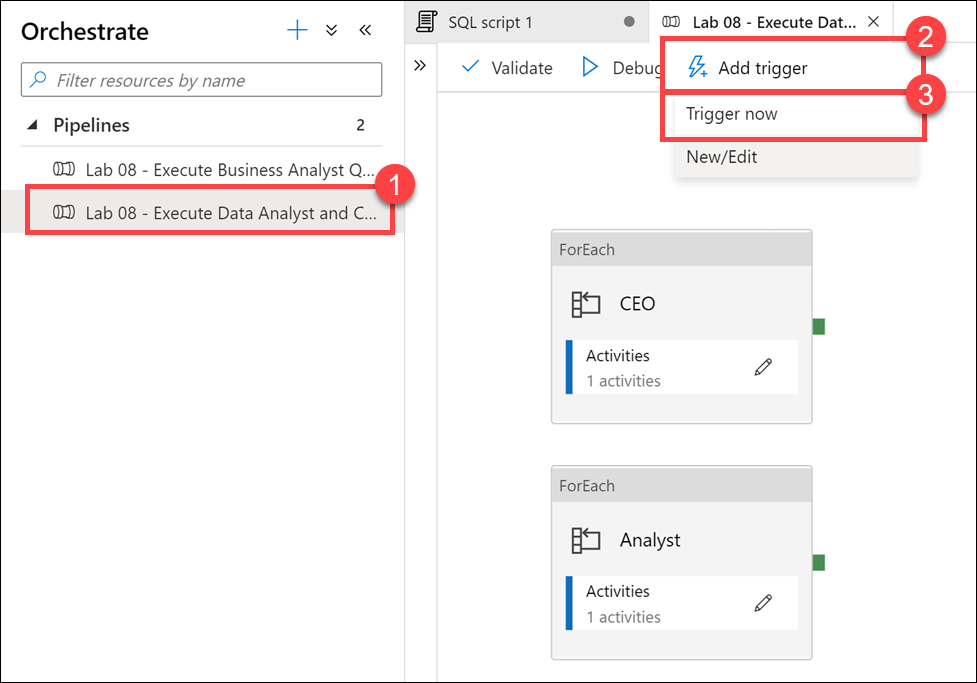
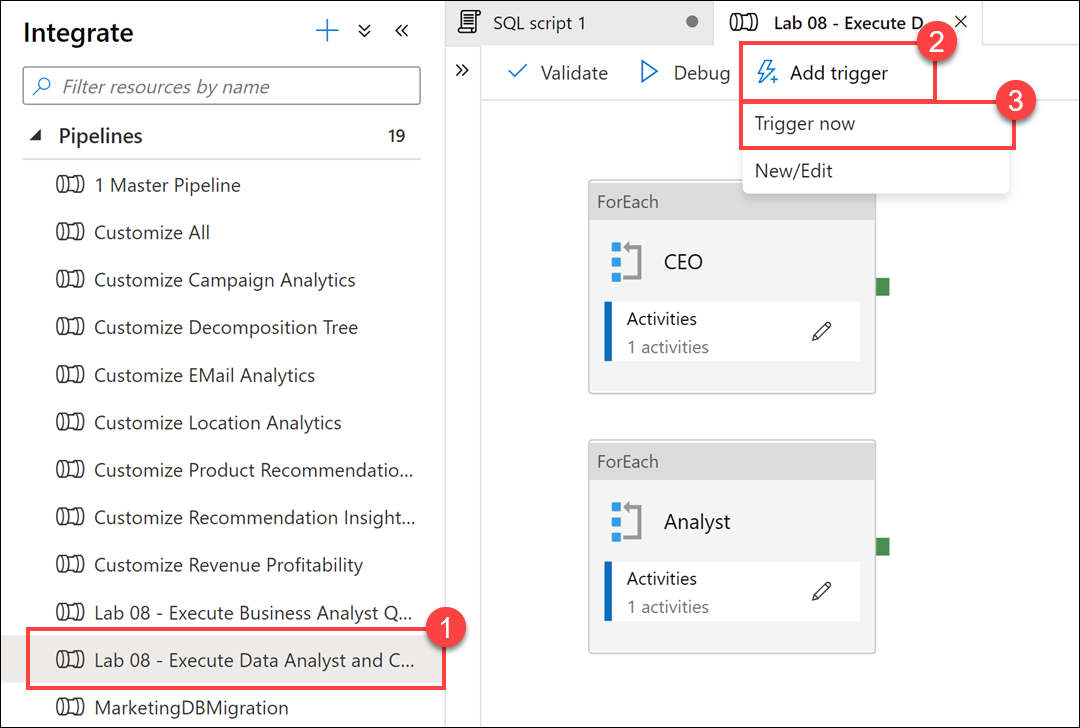
Updates to Module 2

diff --git a/demos/module2/README.md b/demos/module2/README.md
@@ -2,7 +2,7 @@
 
 In this demo, we show ways you can optimize data warehouse workloads that use the dedicated SQL pools. We cover useful developer features, how to define and use workload management and classification to control data loading, and methods to optimize query performance. The following table of contents describes and links to the elements of the demo:
 
-- [Optimize a Data Warehouse with dedicated SQL Pools in Azure Synapse](#optimize-a-data-warehouse-with-azure-synapse-sql-pools)
+- [Optimize a Data Warehouse with dedicated SQL Pools in Azure Synapse](#optimize-a-data-warehouse-with-dedicated-sql-pools-in-azure-synapse)
   - [Demo prerequisites](#demo-prerequisites)
   - [Understanding developer features of Azure Synapse Analytics](#understanding-developer-features-of-azure-synapse-analytics)
     - [Using window functions](#using-window-functions)
@@ -222,7 +222,7 @@ To understand their requirements, let's first execute a distinct count over the 
 
     ![The run button is highlighted in the query toolbar.](media/synapse-studio-query-toolbar-run.png "Run")
 
-    The query takes up to 20 seconds to execute. That is expected, as distinct counts are one of the most difficult types of queries to optimize.
+    The query takes between 30 and 50 seconds to execute. That is expected, as distinct counts are one of the most difficult types of queries to optimize.
 
     The result should be `1,000,000`.
 
@@ -290,9 +290,9 @@ Tailwind Traders has asked you if there is a way to mark queries executed by the
 
     Now that we have confirmed that there are no running queries, we need to flood the system with queries and see what happens for `asa.sql.workload01` and `asa.sql.workload02`. To do this, we'll run a Synapse Pipeline which triggers queries.
 
-6. Select the **Orchestrate** hub.
+6. Select the **Integrate** hub.
 
-    ![The orchestrate hub is highlighted.](media/orchestrate-hub.png "Orchestrate hub")
+    ![The integrate hub is highlighted.](media/integrate-hub.png "Integrate hub")
 
 7. Select the **Lab 08 - Execute Data Analyst and CEO Queries** pipeline **(1)**, which will run / trigger the `asa.sql.workload01` and `asa.sql.workload02` queries. Select **Add trigger (2)**, then **Trigger now (3)**. In the dialog that appears, select **OK**.
 
@@ -318,7 +318,7 @@ Tailwind Traders has asked you if there is a way to mark queries executed by the
 
     ![SQL query results.](media/sql-query-2-results.png "SQL script")
 
-    > **Note to presenter**: This query could take over a minute to execute.
+    > **Note to presenter**: This query could take over a minute to execute. If it takes longer than this, cancel the query and run it again.
 
     Notice that the **Importance** level for all queries is set to **normal**.
 
@@ -430,9 +430,9 @@ Let's start by experimenting with different parameters.
 
     ![The run button is highlighted in the query toolbar.](media/synapse-studio-query-toolbar-run.png "Run")
 
-7. Select the **Orchestrate** hub.
+7. Select the **Integrate** hub.
 
-    ![The orchestrate hub is highlighted.](media/orchestrate-hub.png "Orchestrate hub")
+    ![The integrate hub is highlighted.](media/integrate-hub.png "Integrate hub")
 
 8. Select the **Lab 08 - Execute Business Analyst Queries** Pipeline **(1)**, which will run / trigger  `asa.sql.workload02` queries. Select **Add trigger (2)**, then **Trigger now (3)**. In the dialog that appears, select **OK**.
 
@@ -709,7 +709,7 @@ Let's start by experimenting with different parameters.
 
     ![The run button is highlighted in the query toolbar.](media/synapse-studio-query-toolbar-run.png "Run")
 
-    You should see a performance improvement executing against the new Hash table compared to the first time we ran the script against the Heap table. In our case, the query executed in about half the time.
+    You should see a performance improvement executing against the new Hash table compared to the first time we ran the script against the Heap table. In our case, the query executed in about 35 seconds.
 
     ![The script run time of 6 seconds is highlighted in the query results.](media/sale-hash-result.png "Hash table results")
 
@@ -721,7 +721,7 @@ Date columns are usually good candidates for partitioning tables at the distribu
 
 The dedicated SQL pool already contains two versions of the `Sale` table that have been partitioned using `TransactionDateId`. These tables are `[wwi_perf].[Sale_Partition01]` and `[wwi_perf].[Sale_Partition02]`. Below are the CTAS queries that have been used to create these tables.
 
-1. In the query window, replace the script with the following CTAS queries that create the partition tables:
+1. In the query window, replace the script with the following CTAS queries that create the partition tables (**do not** execute):
 
     ```sql
     CREATE TABLE [wwi_perf].[Sale_Partition01]
@@ -878,7 +878,7 @@ Result cache is evicted regularly based on a time-aware least recently used algo
 
 5. In the toolbar menu, connect to the **SQLPool01** database for the next query.
 
-    ![The connect to option is highlighted in the query toolbar.](media/synapse-studio-query-toolbar-connect.png "Query toolbar")
+    ![The connect to option is highlighted in the query toolbar.](media/synapse-studio-query-toolbar-sqlpool01-database.png "Query toolbar")
 
 6. In the query window, replace the script with the following query and immediately check if it hit the cache:
 
